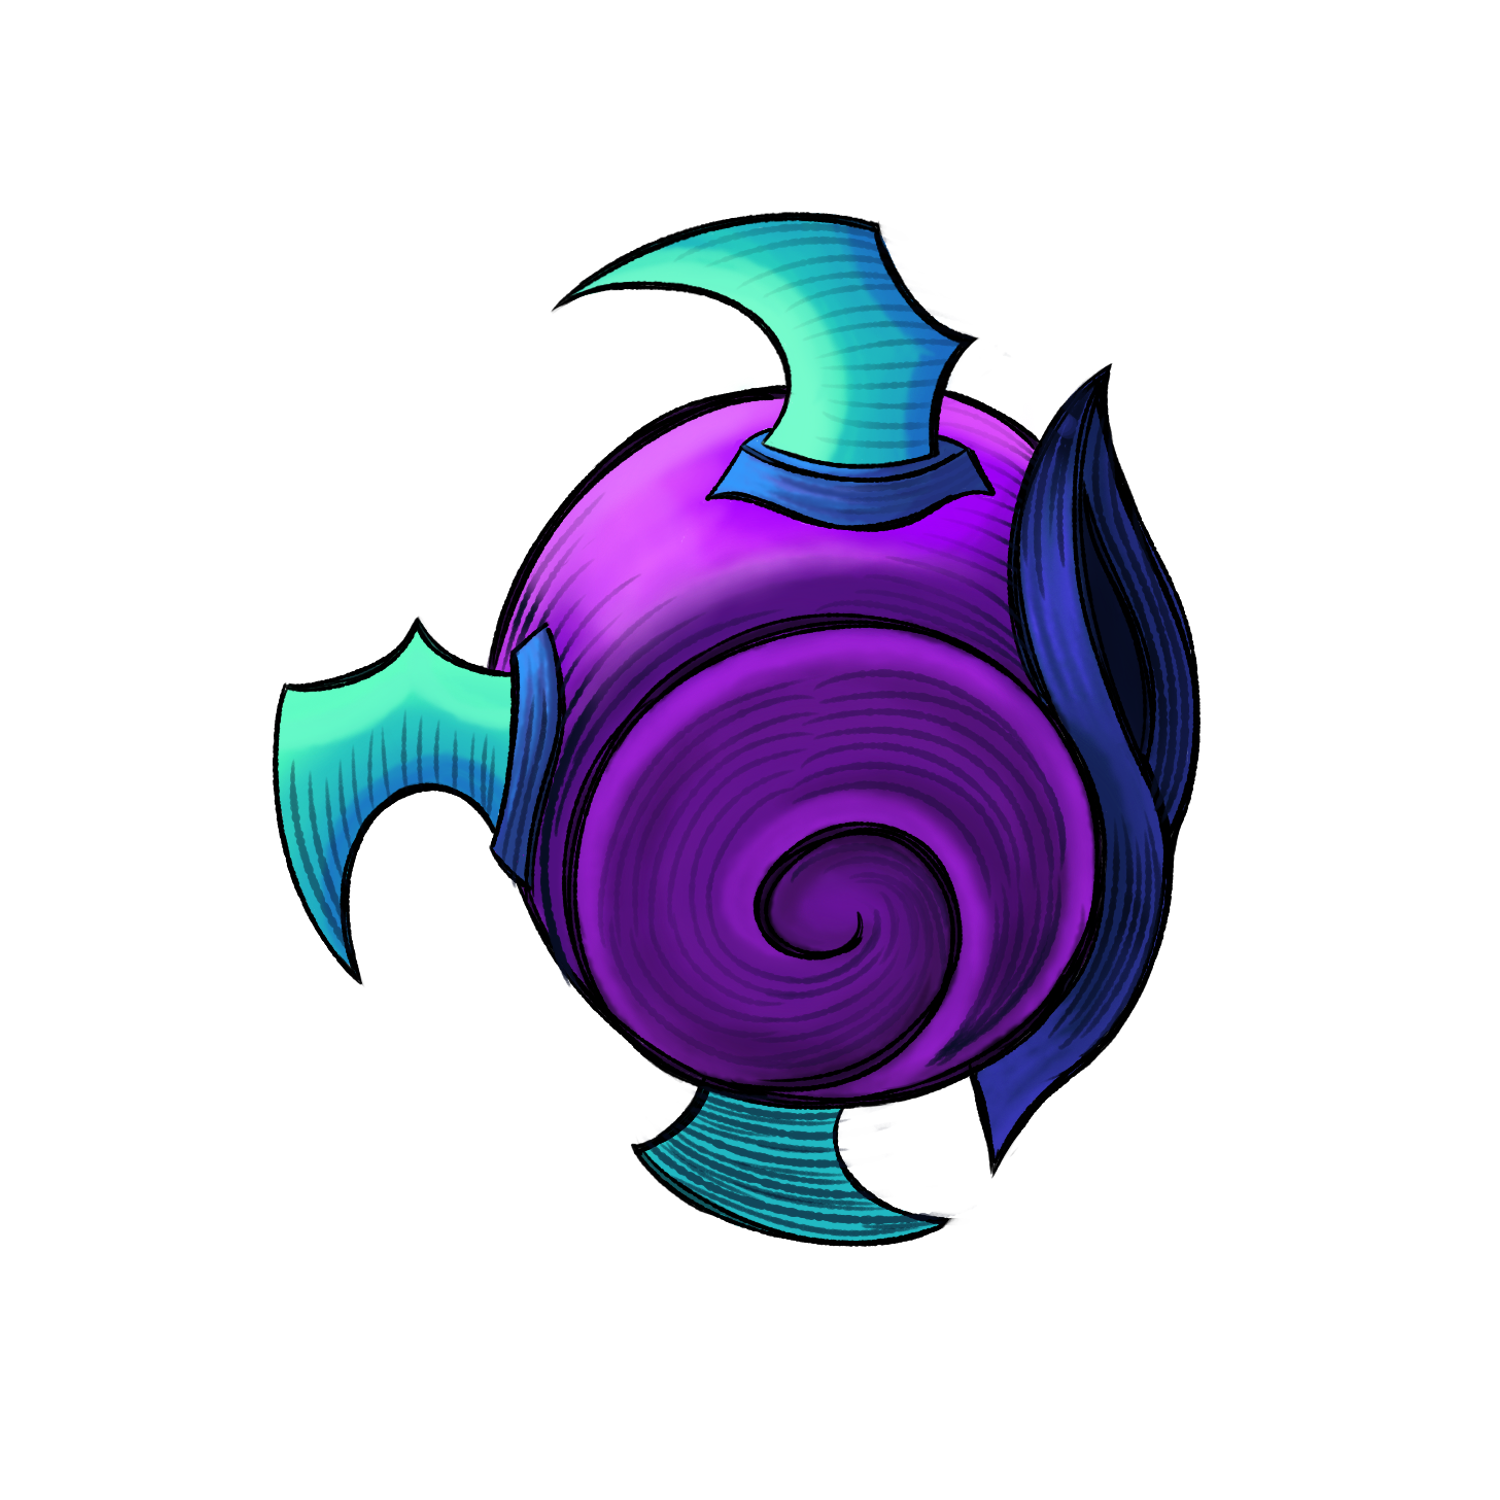
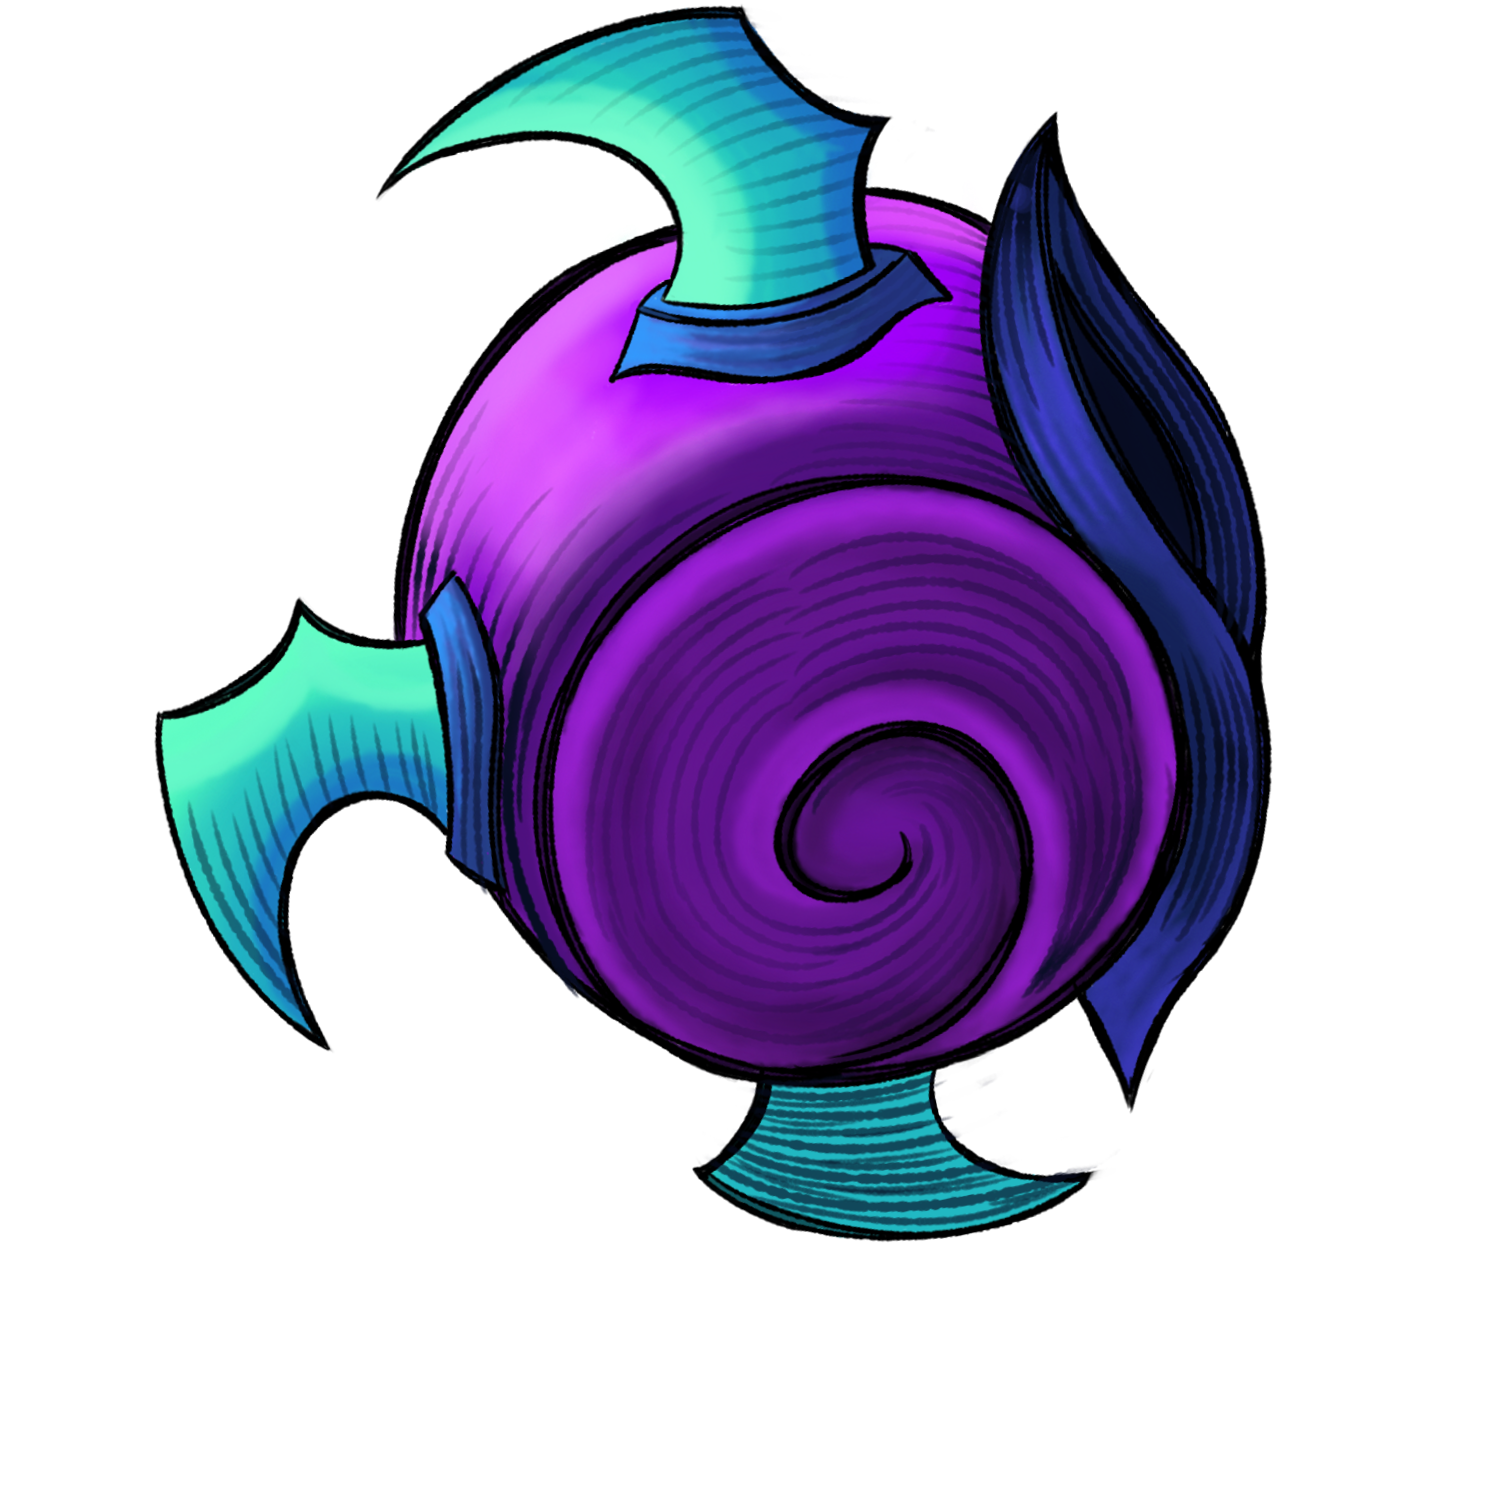
se agrego poción y se actualizo caracola

diff --git a/src/pages/data.js b/src/pages/data.js
@@ -17,6 +17,7 @@ import img14 from '../assets/item_15.png';
 import img15 from '../assets/item_16.png';
 import img16 from '../assets/item_17.png';
 import img17 from '../assets/item_18.png';
+import img18 from '../assets/item_19.png';
 
 
 
@@ -165,11 +166,11 @@ export const items = [
 
   },
   {
-    id: 18,
-    title: "No Data",
-    img: img,
-    description: "",
-    artist: ''
+    id: 19,
+    title: "Poción",
+    img: img18,
+    description: "Poción que quita todos los malestares",
+    artist: 'Kaizo'
 
   },
   {
